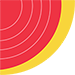
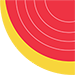
sb-admin styling for navbar hover, rotate corner image source

diff --git a/public/css/sb-admin-2.css b/public/css/sb-admin-2.css
@@ -22,8 +22,8 @@ body {
     border-left: 1px solid #e7e7e7;
   }
 }
-#t1 :hover, #t2 :hover,
-#t1 :focus, #t2 :focus{
+#t1 :hover, #t2 :hover, #t3 :hover, #t4 :hover,
+#t1 :focus, #t2 :focus, #t3 :focus, #t4 :focus{
   background-color: black;
 }
 .nav .nav-second-level :hover {
